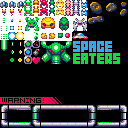
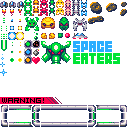
added background

diff --git a/entity/Background.cs b/entity/Background.cs
@@ -1,0 +1,79 @@
+using SFML.Graphics;
+using SFML.System;
+
+namespace invaders.entity;
+
+public class Background : Entity
+{
+    private const float StarDensity = 0.0002f;
+    private static readonly IntRect SmallStar = new(2, 54, 1, 1);
+    private static readonly IntRect MediumStar = new(1, 57, 3, 3);
+    private static readonly IntRect LargeStar = new(0, 62, 5, 5);
+    private static readonly IntRect LargestStar = new(0, 69, 7, 7);
+
+    private Dictionary<Vector2f, IntRect> StarMap =  new();
+    private int _seed;
+    private float _scroll;
+    
+    public Background(int seed) : base("invaders", SmallStar, 1)
+    {
+        GenerateStarMap();
+        zIndex = -100;
+        _seed = seed;
+    }
+
+    public Background() : base("invaders", SmallStar, 1)
+    {
+        GenerateStarMap();
+        zIndex = -100;
+    }
+
+    public override void Update(float deltaTime)
+    {
+        _scroll += (Scene.AmbientScroll * deltaTime);
+        _scroll %= Program.ScreenHeight;
+    }
+
+    public override void Render(RenderTarget target)
+    {
+        foreach (KeyValuePair<Vector2f,IntRect> star in StarMap)
+        {
+            float y = (star.Key.Y + _scroll) % Program.ScreenHeight;
+            sprite.Position = new Vector2f(star.Key.X, y);
+            sprite.TextureRect = star.Value;
+            target.Draw(sprite);
+        }
+        
+    }
+
+    private void GenerateStarMap()
+    {
+        Random random = new Random();
+        if (_seed != 0) random = new Random(_seed);
+        StarMap = new();
+        
+        for (int i = 0; i < Program.ScreenHeight - LargestStar.Height; i++)
+        {
+            for (int j = 0; j < Program.ScreenWidth - LargestStar.Width; j++)
+            {
+                if (random.NextDouble() < StarDensity)
+                {
+                    StarMap[new Vector2f(j, i)] = random.Next(10) switch
+                    {
+                        0 => SmallStar,
+                        1 => SmallStar,
+                        2 => SmallStar,
+                        3 => SmallStar,
+                        4 => MediumStar,
+                        5 => MediumStar,
+                        6 => MediumStar,
+                        7 => MediumStar,
+                        8 => LargeStar,
+                        9 => LargestStar,
+                        _ => SmallStar
+                    };
+                }
+            }
+        }
+    }
+}

diff --git a/entity/Entity.cs b/entity/Entity.cs
@@ -9,15 +9,16 @@ public abstract class Entity
     protected string textureName;
     public const int SpriteWidth = 0;
     public const int SpriteHeight = 0;
-    public const float Scale = 1f;
+    protected const float Scale = 3;
     public bool Dead = false;
     public bool DontDestroyOnLoad = false;
+    public int zIndex;
 
-    public Entity(string textureName, IntRect initRect, float scale)
+    public Entity(string textureName, IntRect initRect, float scale) 
     {
         this.textureName = textureName;
         AssetManager.LoadTexture(textureName, initRect, ref sprite);
-        sprite.Scale = new Vector2f(scale, scale);
+        sprite.Scale = new Vector2f(scale, scale); // scale is constructor parameter so it can be changed by children
     }
     
     public Vector2f Position
@@ -30,9 +31,9 @@ public abstract class Entity
 
     public virtual CollisionLayer Layer => CollisionLayer.None;
     
-    public abstract void Init();
+    public virtual void Init() {}
 
-    public abstract void Destroy();
+    public virtual void Destroy() {}
         
     public virtual void Update(float deltaTime) { }
 
@@ -48,5 +49,13 @@ public abstract class Entity
         OutSideTop,
         OutSideBottom,
         Inside
+    }
+
+    public static int CompareByZIndex(Entity? e1, Entity? e2)
+    {
+        if (e1 == null && e2 == null) return 0;
+        if (e1 == null) return -1;
+        if (e2 == null) return 1;
+        return e1.zIndex - e2.zIndex;
     }
 }

diff --git a/Scene.cs b/Scene.cs
@@ -5,7 +5,6 @@ using invaders.interfaces;
 
 namespace invaders;
 
-
 // Scene class mostly the same as in lab project 4
 public static class Scene
 {
@@ -15,6 +14,7 @@ public static class Scene
     public const int MarginTop = 50;
     public const int MarginSide = 24;
     public const int SpawnInterval = 100;
+    public const float AmbientScroll = 30;
 
     public const float MaxEnemySpeed = 30f;
     
@@ -23,10 +23,13 @@ public static class Scene
     private static List<(List<char> c, int timer)> _currentLevel = new();
     private static float _waveTimer = -1f;
     private static int _currentWave = -1;
-    
 
+    // background is continuous throughout the game so is not added to _entities;
+    private static Background _background;  
+    
     static Scene()
     {
+        _background = new Background();
         LoadNextLevel = true;
         LevelCounter = -1;
     }
@@ -90,6 +93,7 @@ public static class Scene
     
     public static void UpdateAll(float deltaTime)
     {
+        _background.Update(deltaTime);
         if (LoadNextLevel)
         {
             LevelCounter++;
@@ -116,6 +120,8 @@ public static class Scene
 
     public static void RenderAll(RenderTarget target)
     {
+        _background.Render(target);
+        _entities.Sort(Entity.CompareByZIndex);
         foreach (Entity entity in _entities)
         {
             if (!entity.Dead) entity.Render(target);

diff --git a/entity/Player.cs b/entity/Player.cs
@@ -8,7 +8,6 @@ namespace invaders.entity;
 
 public class Player : Actor, IAnimatable
 {
-    protected new const int Scale = 3;
     private const float Speed = 200f;
     private float _fireRate = 0.5f;
     private float _fireTimer;
@@ -28,6 +27,7 @@ public class Player : Actor, IAnimatable
         maxHealth = 3;
         currentHealth = 3;
         _invincibilityTimer = _invicibilityWindow;
+        zIndex = 10;
     }
 
     protected override Vector2f bulletOrigin => Position + new Vector2f(25, 25);
@@ -76,11 +76,6 @@ public class Player : Actor, IAnimatable
         if (_fireTimer >= _fireRate) _burstIndex = 0;
         if (currentHealth <= 0) WillDie = true;
     }
-    
-    
-    public override void Init() { }
-
-    public override void Destroy() { }
 
     public override void HitByBullet(Bullet bullet)
     {

diff --git a/entity/Bullet.cs b/entity/Bullet.cs
@@ -8,8 +8,6 @@ public class Bullet : Entity
     public BulletType Type;
     public CollisionLayer EffectiveAgainstLayer; // the collision layer that this bullet should collide with
     private Vector2f _velocity;
-
-    private new const float Scale = 3;
     
     private static Dictionary<BulletType, IntRect[]> bulletTypes = new()
     {
@@ -53,10 +51,6 @@ public class Bullet : Entity
             }
         }
     }
-
-    public override void Init() { }
-
-    public override void Destroy() { }
     
     public enum BulletType 
     {

diff --git a/entity/Grunt.cs b/entity/Grunt.cs
@@ -8,7 +8,6 @@ public class Grunt : AbstractEnemy, IAnimatable
 {
     public new const int SpriteWidth = 8;
     public new const int SpriteHeight = 8;
-    public new const float Scale = 3;
 
     private float _timeUntilFire;
     private float _fireTimer;
@@ -34,8 +33,6 @@ public class Grunt : AbstractEnemy, IAnimatable
         horizontalSpeed = new Random().Next(2) == 0 ? 30f : -30f;
         _timeUntilFire = getNewFireTime();
     }
-    
-    public override void Destroy() { }
 
     public override void Update(float deltaTime)
     {
